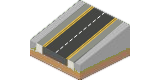
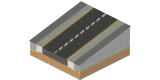
Rebuild the hill slope road tiles to a 13 px rise
The four roadHill{N,E,S,W}_fixed tiles were re-rendered from 100x80 sources
whose road surface climbs ~15 px across the tile, but terrain steps are 13 px
(HEIGHT_STEP_PIXELS). Each slope therefore ended about 2 px above the tile
continuing it, and its thicker lane lines sat a pixel or two off the straight
tiles', so a climbing road showed a jog and a stray pavement end-cap at every
seam.

scripts/build-road-slope-tiles.js now projects the straight tile's own surface
onto a plane rising exactly 13 px from the low edge to the high edge, adds the
retaining walls under the raised edges and keeps the straight tile's earth
base; the surface overruns the seam edges by a pixel so two anti-aliased edges
never show the terrain through a seam. Tests pin the profile continuity at
both edges, the prism bound, and that the committed tiles match the script.

diff --git a/scripts/build-road-slope-tiles.js b/scripts/build-road-slope-tiles.js
@@ -1,0 +1,191 @@
+// Build the four hill-slope road tiles of the newRoadTiles set from its straight tiles.
+//
+//   node scripts/build-road-slope-tiles.js [--out <dir>] [--preview <png>]
+//
+// The shipped roadHill{N,E,S,W}_fixed.png were re-rendered from 100x80 sources whose road
+// surface climbs ~15 px across the tile, but the engine raises terrain by HEIGHT_STEP_PIXELS
+// (13 px) per level. Every slope tile therefore ended ~2 px above the tile that continues it,
+// and its lane markings and kerbs sat a pixel or two off those of the straight tiles, so a
+// climbing road showed a jog and a stray pavement end-cap at every seam.
+//
+// This projects the straight tile's surface onto a plane that rises exactly 13 px from the low
+// edge to the high edge, then adds the retaining walls under the raised edges and keeps the
+// straight tile's own earth base, so the profile at each seam is the straight tile's profile.
+//
+// Tile canvas: 160x80 with the 100x50 ground diamond at x 30..130, y 15..65 (N vertex at
+// (80,15)) and a 15 px earth base below it. Tile-local coordinates (c, r) in [-0.5, 0.5] run
+// along screen SE (map east) and screen SW (map south): x = 80 + (c - r) * 50,
+// y = 40 + (c + r) * 25 - z.
+const fs = require('fs');
+const path = require('path');
+const sharp = require('sharp');
+
+const ROOT = path.resolve(__dirname, '..');
+const args = process.argv.slice(2);
+const argValue = (flag) => { const i = args.indexOf(flag); return i >= 0 ? args[i + 1] : null; };
+const TILE_DIR = path.join(ROOT, 'newRoadTiles');
+const OUT_DIR = path.resolve(argValue('--out') || TILE_DIR);
+const PREVIEW = argValue('--preview');
+
+const CANVAS_W = 160;
+const CANVAS_H = 80;
+const CENTER_X = 80;
+const CENTER_Y = 40;      // ground diamond centre
+const HALF_W = 50;
+const HALF_H = 25;
+const BASE_HEIGHT = 15;   // earth base below the ground diamond
+const RISE = 13;          // HEIGHT_STEP_PIXELS
+const SUPERSAMPLE = 3;
+const EDGE_INSET = 0.03;  // tile units (~1.5 px) kept clear of the straight tile's feathered edge
+const EDGE_OVERLAP = 0.02; // tile units (1 px) the surface overruns the low and high edges
+
+// Which ground-diamond edge each slope tile raises, which straight tile carries its road, and
+// the wall shades the shipped art used for the faces under the raised edges (SE face / SW face).
+const SLOPES = [
+  { file: 'roadHillN_fixed.png', high: 'SE', straight: 'roadNS_fixed.png', wallSE: 81,  wallSW: 159 },
+  { file: 'roadHillE_fixed.png', high: 'SW', straight: 'roadEW_fixed.png', wallSE: 147, wallSW: 90 },
+  { file: 'roadHillS_fixed.png', high: 'NW', straight: 'roadNS_fixed.png', wallSE: 147, wallSW: 159 },
+  { file: 'roadHillW_fixed.png', high: 'NE', straight: 'roadEW_fixed.png', wallSE: 147, wallSW: 159 },
+];
+
+// Height of the slope plane at tile-local (c, r).
+function riseAt(high, c, r) {
+  switch (high) {
+    case 'SE': return RISE * (c + 0.5);
+    case 'NW': return RISE * (0.5 - c);
+    case 'SW': return RISE * (r + 0.5);
+    case 'NE': return RISE * (0.5 - r);
+    default: throw new Error(`unknown high edge ${high}`);
+  }
+}
+
+// Tile-local (c, r) of the slope-plane point drawn at screen (x, y). The plane is linear, so
+// this is a 2x2 solve: x fixes c - r, and y = 40 + (c + r) * 25 - rise(c, r).
+function slopePointAt(high, x, y) {
+  const diff = (x - CENTER_X) / HALF_W;               // c - r
+  const yFlat = y - CENTER_Y;
+  let sum;                                           // c + r
+  switch (high) {
+    case 'SE': sum = (yFlat + RISE * (diff / 2 + 0.5)) / (HALF_H - RISE / 2); break;
+    case 'NW': sum = (yFlat + RISE * (0.5 - diff / 2)) / (HALF_H + RISE / 2); break;
+    case 'SW': sum = (yFlat + RISE * (0.5 - diff / 2)) / (HALF_H - RISE / 2); break;
+    case 'NE': sum = (yFlat + RISE * (diff / 2 + 0.5)) / (HALF_H + RISE / 2); break;
+    default: throw new Error(`unknown high edge ${high}`);
+  }
+  return { c: (sum + diff) / 2, r: (sum - diff) / 2 };
+}
+
+function sampleBilinear(img, x, y) {
+  const { data, width, height } = img;
+  const x0 = Math.floor(x - 0.5), y0 = Math.floor(y - 0.5);
+  const fx = x - 0.5 - x0, fy = y - 0.5 - y0;
+  const out = [0, 0, 0, 0];
+  let weight = 0;
+  for (let j = 0; j <= 1; j++) {
+    for (let i = 0; i <= 1; i++) {
+      const px = x0 + i, py = y0 + j;
+      if (px < 0 || py < 0 || px >= width || py >= height) continue;
+      const w = (i ? fx : 1 - fx) * (j ? fy : 1 - fy);
+      const o = (py * width + px) * 4;
+      const a = data[o + 3] / 255;
+      out[0] += data[o] * a * w; out[1] += data[o + 1] * a * w; out[2] += data[o + 2] * a * w;
+      out[3] += a * w;
+      weight += w;
+    }
+  }
+  if (weight <= 0 || out[3] <= 0) return [0, 0, 0, 0];
+  return [out[0] / out[3], out[1] / out[3], out[2] / out[3], (out[3] / weight) * 255];
+}
+
+// Colour of the slope tile at screen point (x, y): surface, wall, earth base or nothing.
+function shadeAt(spec, straight, x, y) {
+  const { c, r } = slopePointAt(spec.high, x, y);
+  // Along the road the surface runs a pixel past both the low and the high edge, so a seam is
+  // fully covered by two opaque tiles instead of two anti-aliased edges over the terrain.
+  const alongC = spec.high === 'SE' || spec.high === 'NW';
+  const cLimit = 0.5 + (alongC ? EDGE_OVERLAP : 0);
+  const rLimit = 0.5 + (alongC ? 0 : EDGE_OVERLAP);
+  if (Math.abs(c) <= cLimit && Math.abs(r) <= rLimit) {
+    // Read the straight tile just inside its silhouette so its feathered edge pixels never land
+    // on a seam, and let the supersampling coverage anti-alias this tile's own outline.
+    const cc = Math.max(-0.5 + EDGE_INSET, Math.min(0.5 - EDGE_INSET, c));
+    const rr = Math.max(-0.5 + EDGE_INSET, Math.min(0.5 - EDGE_INSET, r));
+    const [sr, sg, sb] = sampleBilinear(straight, CENTER_X + (cc - rr) * HALF_W, CENTER_Y + (cc + rr) * HALF_H);
+    return [sr, sg, sb, 255];
+  }
+  // Faces under the SE edge (c = 0.5) and the SW edge (r = 0.5): a wall from the raised edge
+  // down to the ground edge, then the straight tile's own base below the ground edge.
+  if (x >= CENTER_X && x <= CENTER_X + HALF_W) {
+    const edgeR = 0.5 - (x - CENTER_X) / HALF_W;
+    const groundY = CENTER_Y + (0.5 + edgeR) * HALF_H;
+    const wall = riseAt(spec.high, 0.5, edgeR);
+    if (y >= groundY - wall && y < groundY) return [spec.wallSE, spec.wallSE, spec.wallSE, 255];
+    if (y >= groundY && y < groundY + BASE_HEIGHT) return sampleBilinear(straight, x, y);
+  }
+  if (x >= CENTER_X - HALF_W && x < CENTER_X) {
+    const edgeC = 0.5 + (x - CENTER_X) / HALF_W;
+    const groundY = CENTER_Y + (edgeC + 0.5) * HALF_H;
+    const wall = riseAt(spec.high, edgeC, 0.5);
+    if (y >= groundY - wall && y < groundY) return [spec.wallSW, spec.wallSW, spec.wallSW, 255];
+    if (y >= groundY && y < groundY + BASE_HEIGHT) return sampleBilinear(straight, x, y);
+  }
+  return [0, 0, 0, 0];
+}
+
+async function loadRaw(file) {
+  const { data, info } = await sharp(file).ensureAlpha().raw().toBuffer({ resolveWithObject: true });
+  return { data, width: info.width, height: info.height };
+}
+
+function buildSlope(spec, straight) {
+  const out = Buffer.alloc(CANVAS_W * CANVAS_H * 4);
+  const n = SUPERSAMPLE;
+  for (let py = 0; py < CANVAS_H; py++) {
+    for (let px = 0; px < CANVAS_W; px++) {
+      let rr = 0, gg = 0, bb = 0, aa = 0;
+      for (let j = 0; j < n; j++) {
+        for (let i = 0; i < n; i++) {
+          const [sr, sg, sb, sa] = shadeAt(spec, straight, px + (i + 0.5) / n, py + (j + 0.5) / n);
+          rr += sr * sa; gg += sg * sa; bb += sb * sa; aa += sa;
+        }
+      }
+      const o = (py * CANVAS_W + px) * 4;
+      if (aa > 0) {
+        out[o] = Math.round(rr / aa); out[o + 1] = Math.round(gg / aa); out[o + 2] = Math.round(bb / aa);
+        out[o + 3] = Math.round(aa / (n * n));
+      }
+    }
+  }
+  return out;
+}
+
+async function main() {
+  fs.mkdirSync(OUT_DIR, { recursive: true });
+  const straights = {};
+  const previews = [];
+  for (const spec of SLOPES) {
+    straights[spec.straight] ??= await loadRaw(path.join(TILE_DIR, spec.straight));
+    const pixels = buildSlope(spec, straights[spec.straight]);
+    const outFile = path.join(OUT_DIR, spec.file);
+    await sharp(pixels, { raw: { width: CANVAS_W, height: CANVAS_H, channels: 4, premultiplied: false } })
+      .png({ compressionLevel: 9 })
+      .toFile(outFile);
+    console.log(`${spec.file}: ${spec.high} edge raised ${RISE}px from ${spec.straight}`);
+    previews.push(pixels);
+  }
+  if (PREVIEW) {
+    const scale = 4;
+    const composites = previews.map((pixels, i) => ({
+      input: sharp(pixels, { raw: { width: CANVAS_W, height: CANVAS_H, channels: 4, premultiplied: false } })
+        .resize(CANVAS_W * scale, CANVAS_H * scale, { kernel: 'nearest' }).png(),
+      left: (i % 2) * CANVAS_W * scale,
+      top: Math.floor(i / 2) * CANVAS_H * scale,
+    }));
+    for (const item of composites) item.input = await item.input.toBuffer();
+    await sharp({ create: { width: CANVAS_W * scale * 2, height: CANVAS_H * scale * 2, channels: 4, background: '#2b2b33' } })
+      .composite(composites).png().toFile(PREVIEW);
+    console.log(`preview: ${PREVIEW}`);
+  }
+}
+
+main().catch((error) => { console.error(error); process.exit(1); });

diff --git a/test/road-slope-tiles.test.js b/test/road-slope-tiles.test.js
@@ -1,0 +1,98 @@
+const assert = require('node:assert/strict');
+const { execFileSync } = require('node:child_process');
+const fs = require('node:fs');
+const os = require('node:os');
+const path = require('node:path');
+const test = require('node:test');
+const sharp = require('sharp');
+
+const ROOT = path.resolve(__dirname, '..');
+const TILE_DIR = path.join(ROOT, 'newRoadTiles');
+const RISE = 13; // HEIGHT_STEP_PIXELS
+
+// Ground diamond of a 160x80 tile: centre (80,40), half extents 50x25. Screen position of the
+// slope-plane point (c, r) that is `rise` px above the ground.
+const screenOf = (c, r, rise) => ({ x: 80 + (c - r) * 50, y: 40 + (c + r) * 25 - rise });
+
+const SLOPES = [
+  // high edge, straight tile whose profile the slope must continue, road axis, rise as f(c, r)
+  { file: 'roadHillN_fixed.png', straight: 'roadNS_fixed.png', axis: 'c', rise: (c) => RISE * (c + 0.5) },
+  { file: 'roadHillE_fixed.png', straight: 'roadEW_fixed.png', axis: 'r', rise: (c, r) => RISE * (r + 0.5) },
+  { file: 'roadHillS_fixed.png', straight: 'roadNS_fixed.png', axis: 'c', rise: (c) => RISE * (0.5 - c) },
+  { file: 'roadHillW_fixed.png', straight: 'roadEW_fixed.png', axis: 'r', rise: (c, r) => RISE * (0.5 - r) },
+];
+
+async function loadRaw(file) {
+  const { data, info } = await sharp(file).ensureAlpha().raw().toBuffer({ resolveWithObject: true });
+  return { data, width: info.width, height: info.height };
+}
+
+function pixelAt(img, x, y) {
+  const px = Math.min(img.width - 1, Math.max(0, Math.round(x - 0.5)));
+  const py = Math.min(img.height - 1, Math.max(0, Math.round(y - 0.5)));
+  const o = (py * img.width + px) * 4;
+  return Array.from(img.data.subarray(o, o + 4));
+}
+
+const colourDistance = (a, b) => Math.max(Math.abs(a[0] - b[0]), Math.abs(a[1] - b[1]), Math.abs(a[2] - b[2]));
+
+// A slope tile drawn 13 px lower than its uphill neighbour must show, along the shared edge, the
+// same road profile the straight tile shows: kerbs, yellow lines and asphalt in the same place.
+// The shipped art rose ~15 px per tile, which put a jog at every seam of a climbing road.
+test('each hill slope tile continues the straight tile profile at both its low and its high edge', async () => {
+  for (const spec of SLOPES) {
+    const slope = await loadRaw(path.join(TILE_DIR, spec.file));
+    const straight = await loadRaw(path.join(TILE_DIR, spec.straight));
+    for (const along of [-0.46, 0.46]) {
+      let mismatches = 0;
+      let samples = 0;
+      for (let across = -0.44; across <= 0.44; across += 0.02) {
+        const c = spec.axis === 'c' ? along : across;
+        const r = spec.axis === 'c' ? across : along;
+        const { x, y } = screenOf(c, r, spec.rise(c, r));
+        const actual = pixelAt(slope, x, y);
+        assert.equal(actual[3], 255, `${spec.file}: surface opaque at (${x.toFixed(1)}, ${y.toFixed(1)})`);
+        // Sub-pixel resampling of a 1 px line can move it by a pixel: accept a match one pixel
+        // either side across the road.
+        const neighbours = [-0.02, 0, 0.02].map((d) => {
+          const nc = spec.axis === 'c' ? c : c + d;
+          const nr = spec.axis === 'c' ? r + d : r;
+          return pixelAt(straight, screenOf(nc, nr, 0).x, screenOf(nc, nr, 0).y);
+        });
+        if (Math.min(...neighbours.map((n) => colourDistance(n, actual))) > 40) mismatches++;
+        samples++;
+      }
+      assert.ok(mismatches <= samples * 0.1,
+        `${spec.file} at along=${along}: ${mismatches}/${samples} samples differ from ${spec.straight}`);
+    }
+  }
+});
+
+test('hill slope tiles stay inside their 13 px prism (nothing above the raised edge)', async () => {
+  for (const spec of SLOPES) {
+    const slope = await loadRaw(path.join(TILE_DIR, spec.file));
+    for (let y = 0; y < slope.height; y++) {
+      for (let x = 0; x < slope.width; x++) {
+        if (slope.data[(y * slope.width + x) * 4 + 3] < 32) continue;
+        // Ground diamond top edge at this x, lifted by the full rise: nothing may be above it
+        // except the 1 px overrun the builder gives the surface along the road (and its AA).
+        const topY = 15 + Math.abs(x + 0.5 - 80) / 2 - RISE - 1.75;
+        assert.ok(y + 0.5 >= topY, `${spec.file}: opaque pixel at (${x}, ${y}) is above the raised diamond`);
+      }
+    }
+  }
+});
+
+test('the committed slope tiles are what scripts/build-road-slope-tiles.js produces', async () => {
+  const outDir = fs.mkdtempSync(path.join(os.tmpdir(), 'road-slope-tiles-'));
+  try {
+    execFileSync(process.execPath, [path.join(ROOT, 'scripts', 'build-road-slope-tiles.js'), '--out', outDir], { stdio: 'pipe' });
+    for (const spec of SLOPES) {
+      const built = await loadRaw(path.join(outDir, spec.file));
+      const shipped = await loadRaw(path.join(TILE_DIR, spec.file));
+      assert.ok(built.data.equals(shipped.data), `${spec.file} differs from the script output; re-run the script`);
+    }
+  } finally {
+    fs.rmSync(outDir, { recursive: true, force: true });
+  }
+});
